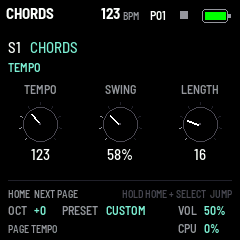
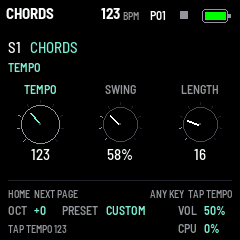
feat(terykons): 0.38.0, tap tempo on the TEMPO page's keys
- on TEMPO every key taps the tempo (no note, no MIDI out): the last
  five taps (four beats) averaged, a pause over 2.5 s a new count,
  30 to 300 BPM; heard at once while playing; SAVE keeps it
- TEMPO's knob lit as turned, TAP TEMPO and the BPM said; the band's
  hint ANY KEY TAP TEMPO
- HOME held + white key still a pattern, LOCK mode's keys still steps,
  a key held from another page lets its note go; a MIDI clock in leads
- tap.txt scenario; screen-tempo.png tapped
- docs, release notes

diff --git a/terykons/app.c b/terykons/app.c
@@ -110,6 +110,8 @@ static const uint8_t DRUM_OSC[SYNTH_D_TRACKS][3] = {{40, 55, 40}, {50, 50, 50}, 
 static const uint8_t DRUM_NOTE[SYNTH_D_TRACKS] = {36, 55, 60, 60};
 #define VOICES_DEFAULT SYNTH_POLY_VOICES
 #define FIXED_VELOCITY 100u              /* the keys' velocity with VELOCITY off */
+#define TAP_TAPS 5u                       /* (0.38) tap tempo: the last five taps, four beats, averaged */
+#define TAP_GAP_MS 2500u                 /* a pause longer: a new count (30 BPM is 2000 ms a beat) */
 static settings_t set;
 static settings_t set_stored;            /* as the flash has it: SAVE writes the settings only when they differ */
 static uint8_t set_dirty;                /* changed since the last save: SAVE is lit (or the pattern unsaved) */
@@ -989,6 +991,9 @@ static struct {
     uint16_t lock_held;                  /* the view page's steps held in LOCK mode, a bit each */
     uint32_t key_lock;                   /* the keys pressed as LOCK's steps (let go as such) */
     uint32_t key_mix;                    /* (0.26) the keys pressed on the mixer (mutes, tracks: let go as such) */
+    uint32_t key_tap;                    /* (0.38) the keys tapped on TEMPO (let go as such) */
+    uint32_t tap_at[TAP_TAPS];           /* the last taps, oldest first (ms) */
+    uint8_t tap_n;                       /* how many of them count */
     uint8_t mixer_from;                  /* the page SEL opened the mixer on (SEL again: back to it) */
     uint8_t sel_down;                    /* SEL held (let go: the mixer) */
     uint16_t meter[SYNTH_TRACKS];        /* the mixer's meters, 0..256, falling back */
@@ -2780,7 +2785,38 @@ static void page_open(uint32_t k)            /* a page's button: its page (HOME,
  * let go as such, whatever the mode is by then; no pressure sent, no chord */
 static uint32_t keys_taken(void)
 {
-    return ui.key_preset | ui.key_pat | ui.key_mix | ui.key_step | ui.key_lock;
+    return ui.key_preset | ui.key_pat | ui.key_mix | ui.key_step | ui.key_lock | ui.key_tap;
+}
+
+/* (0.38) a key on TEMPO: a tap. The tempo is the last taps' (up to TAP_TAPS: four beats) average; a pause longer than
+ * TAP_GAP_MS starts a new count. Following a MIDI clock in, the clock leads: no tap. */
+static void tempo_tap(void)
+{
+    const uint32_t now = plat_ms();
+    char t[12];
+    if (seq.ext) {
+        app_say("TEMPO", "MIDI CLOCK");
+        return;
+    }
+    if (ui.tap_n && now - ui.tap_at[ui.tap_n - 1u] > TAP_GAP_MS)
+        ui.tap_n = 0;
+    if (ui.tap_n == TAP_TAPS) {
+        memmove(ui.tap_at, ui.tap_at + 1, sizeof ui.tap_at - sizeof ui.tap_at[0]);
+        ui.tap_n--;
+    }
+    ui.tap_at[ui.tap_n++] = now;
+    if (ui.tap_n < 2u) {
+        app_say("TAP", "AGAIN");
+        return;
+    }
+    const uint32_t span = now - ui.tap_at[0], beats = ui.tap_n - 1u;
+    const uint32_t bpm = span ? (60000u * beats + span / 2u) / span : SEQ_BPM_MAX;
+    seq.bpm = (uint16_t)clamp((int32_t)bpm, SEQ_BPM_MIN, SEQ_BPM_MAX);
+    set_dirty = 1;
+    ui.turned_at[EN_K1] = now;               /* (TEMPO's knob lit, easing to it, as turned) */
+    ui.redraw = 1;
+    int_text(seq.bpm, t);
+    app_say("TAP TEMPO", t);
 }
 
 /* a key pressed: SAVE held, a preset slot; HOME held, a pattern (1..16); the mixer, a mute (white 1..8) or a solo
@@ -2821,6 +2857,9 @@ static void key_down(uint32_t k)
             step_key((uint32_t)w, 1);
         else if (b >= 0 && b < (int)SYNTH_TRACKS)
             track_select((uint32_t)b);
+    } else if (active_page == PAGE_TEMPO) {  /* (0.38) TEMPO: every key taps it (none plays) */
+        ui.key_tap |= bit;
+        tempo_tap();
     } else {                                 /* a note: key 0 is F3 (MIDI 53), the octave as it is now */
         const int32_t note = 53 + (int32_t)k + 12 * set.octave;
         const uint32_t v = set.velocity_off ? FIXED_VELOCITY : touch_vel(k);   /* GLO VELOCITY: the keys', or fixed */
@@ -2865,6 +2904,7 @@ static void key_up(uint32_t k)
         ui.key_preset &= ~bit;
         ui.key_pat &= ~bit;
         ui.key_mix &= ~bit;
+        ui.key_tap &= ~bit;
     } else {
         const int32_t note = ui.note[k];
         ui.prs[k] = 0;
@@ -5370,7 +5410,10 @@ static void draw_mixer_band(void)
 /* the page's state, in the bottom band's first line: a sound page's HOME */
 static void draw_status(int32_t y)
 {
-    if (IS_SOUND_PAGE(active_page) || active_page == PAGE_TEMPO) {
+    if (active_page == PAGE_TEMPO) {         /* (0.38: its keys tap) */
+        cv_text(8, y + 2, &FONT_T, "HOME  NEXT PAGE", C_GRAY);
+        cv_text(232 - text_w(&FONT_T, "ANY KEY  TAP TEMPO"), y + 2, &FONT_T, "ANY KEY  TAP TEMPO", C_GRAY);
+    } else if (IS_SOUND_PAGE(active_page)) {
         cv_text(8, y + 2, &FONT_T, "HOME  NEXT PAGE", C_GRAY);
         cv_text(232 - text_w(&FONT_T, "HOLD HOME + SELECT  JUMP"), y + 2, &FONT_T, "HOLD HOME + SELECT  JUMP", C_DIM);
     }

diff --git a/README.uk.md b/README.uk.md
@@ -15,7 +15,8 @@
 
 ---
 
-Поточна версія: **0.37.0**: у кожної синтової доріжки своя обвідна (ENV) і свій LFO (MOD), вони частина її звуку:
+Поточна версія: **0.38.0**: tap tempo: на сторінці TEMPO (HOME на сторінці териконів) кожна клавіша
+відстукує темп, береться середнє останніх чотирьох долей. 0.37.0: у кожної синтової доріжки своя обвідна (ENV) і свій LFO (MOD), вони частина її звуку:
 пресет користувача їх зберігає, а ATTACK, DECAY, RELEASE, LFO RATE і LFO DEPTH можна залочити на кроці. 0.36.2: HOME на
 сторінці териконів відкриває окрему сторінку TEMPO з ручками TEMPO, SWING і LENGTH, ще раз HOME — сторінки звуку. 0.36.1: логотип при ввімкненні тримається близько двох секунд, під ним версія прошивки. 0.36:
 GRAV CODE тепер називається Terykons: нова назва на екрані, по USB і в пакеті
@@ -59,7 +60,7 @@ SELECT перемикає їх швидко.
   MONO, POLY або жодного), і чотири барабанні (D1–D4): кік, малий або хай-хет Plaits (по дві моделі) з шістьма
   ручками (TUNE, DECAY, TONE; у кіка PUNCH, SWEEP, DRIVE), у кожної свій голос. У кожної доріжки свої кроки — 64,
   чотири сторінки по 16 на білих клавішах, як у TR; своя довжина від 1 до 64 (поліметрія); ноти й акорди зі своєю
-  силою та довжиною; шістнадцять патернів, зміна в кінці патерну; спільний темп, свій свінг у кожної доріжки;
+  силою та довжиною; шістнадцять патернів, зміна в кінці патерну; спільний темп (його можна відстукати клавішами на сторінці TEMPO), свій свінг у кожної доріжки;
   покроковий і живий запис; MIDI clock на вихід і вхід; ноти кожної доріжки на своєму MIDI-каналі (1–8);
   параметр-локи на кроках (EDIT: режим LOCK), з нотою чи без, рухи ручок записуються наживо.
 - **Арпеджіатор** на кожній синтовій доріжці (ARP): шість режимів, тривалість ноти в темп, 1–4 октави, GATE і HOLD;
@@ -83,7 +84,7 @@ SELECT перемикає їх швидко.
 | Кнопка | Сторінка | K1 | K2 | K3 |
 | --- | --- | --- | --- | --- |
 | HOME | HOME (терикони) | TEMPO (30–300 BPM) | SWING (50–75 %) | LENGTH (1–64 кроки) |
-| HOME ще раз | TEMPO (ці ручки на екрані) | TEMPO | SWING | LENGTH |
+| HOME ще раз | TEMPO (ці ручки на екрані; будь-яка клавіша відстукує темп) | TEMPO | SWING | LENGTH |
 | HOME ще раз | OSC | TIMBRE | MORPH | HARMONICS |
 | LFO | MOD (синтової доріжки) | LFO RATE (0,05–20 Гц) | LFO DEPTH (глибина) | LFO DEST (TIMBRE, MORPH, PITCH) |
 | ENV | ENV (синтової доріжки) | ATTACK (0–2 с) | DECAY (0–2 с, до 70 %) | RELEASE (0–4 с) |
@@ -159,7 +160,7 @@ K1 — TIMBRE, K2 — MORPH, K3 — HARMONICS (на екрані — свої н
 2. Зберіть сайт і запустіть його (або використайте опублікований):
 
    ```bash
-   python3 tools/make_site.py terykons terykons/build/terykons-0.37.0.fwsc 0.37.0 terykons/build/site
+   python3 tools/make_site.py terykons terykons/build/terykons-0.38.0.fwsc 0.38.0 terykons/build/site
    python3 -m http.server 8080 --directory terykons/build/site
    ```
 
@@ -174,14 +175,14 @@ Terykons збирається інструментом fm1-base `tools/build.py`
 
 ```bash
 export JIELI_TOOLCHAIN="$HOME/.jieli/toolchain" AC79_SDK="$HOME/fw-AC79_AIoT_SDK"
-python3 tools/build.py terykons --release 0.37.0      # terykons/build/terykons-0.37.0.fwsc
+python3 tools/build.py terykons --release 0.38.0      # terykons/build/terykons-0.38.0.fwsc
 python3 tools/build.py terykons --host                # симулятор для тестів:
 terykons/build/host/terykons_host terykons/tests/basic.txt terykons/build/host
 python3 tools/build.py terykons --web                 # емулятор у браузері (Emscripten)
 ```
 
 Тести (`terykons/tests/`): `basic.txt` (клавіші, октава, збереження, MIDI), `engines.txt` (усі рушії звучать),
-`voices.txt` (поліфонія, MONO, velocity), `fx.txt` (ефект: HALL, TAPE, ECHO, його озеро, збереження, старі налаштування), `arp.txt` (арпеджіатор), `locks.txt` (параметр-локи), `envlfo.txt` (ENV і LFO кожної синтової доріжки),
+`voices.txt` (поліфонія, MONO, velocity), `fx.txt` (ефект: HALL, TAPE, ECHO, його озеро, збереження, старі налаштування), `arp.txt` (арпеджіатор), `locks.txt` (параметр-локи), `envlfo.txt` (ENV і LFO кожної синтової доріжки), `tap.txt` (tap tempo),
 `seq.txt` (секвенсор), `rec.txt` (живий запис, метроном), `theme.txt` (кольори екрана й небо), `mixer.txt`
 (мікшер), `browser.txt` (терикони HOME, браузер пресетів), `playback.txt` (усі вісім доріжок грають, розподіл
 голосів VOICES), `tracks.txt` (синтові доріжки), `drums.txt` (барабанні доріжки), `patterns.txt` (патерни),

diff --git a/README.md b/README.md
@@ -15,7 +15,8 @@ reverb, all on the FM-1's own panel and screen.
 
 ---
 
-Current version: **0.37.0**: each synth track has its own envelope (ENV) and LFO (MOD), part of its sound: a user
+Current version: **0.38.0**: tap tempo: on the TEMPO page (HOME from HOME's terricons) every key taps it, the last
+four beats averaged. 0.37.0: each synth track has its own envelope (ENV) and LFO (MOD), part of its sound: a user
 preset keeps them, and ATTACK, DECAY, RELEASE, LFO RATE and LFO DEPTH can be locked on a step. 0.36.2: HOME from HOME's
 terricons shows TEMPO, SWING and LENGTH as knobs on a page of their own (TEMPO), HOME again the sound's pages. 0.36.1: the logo at power-on stays about two seconds, the version under it. 0.36: GRAV CODE is
 Terykons now: its name on the screen, over USB and in the package
@@ -59,7 +60,7 @@ hold HOME and turn SELECT to jump.
   out: MONO, POLY or none), and four drum tracks (D1–D4), each a kick, snare or hi-hat of Plaits' (two models each)
   with six knobs (TUNE, DECAY, TONE; the kick's PUNCH, SWEEP, DRIVE), in a voice of its own. Each its steps: 64 in four pages of 16, played on the white keys like a TR, a length of 1 to 64 each
   (polymeters), notes and chords with their velocity and length; sixteen patterns, switched at the pattern's end;
-  the song's tempo, each pattern's swing; step recording, MIDI clock out and in (it follows one); each track's notes
+  the song's tempo (tap it on the TEMPO page's keys), each pattern's swing; step recording, MIDI clock out and in (it follows one); each track's notes
   on its MIDI channel (1–8); parameter locks on the steps (EDIT: LOCK mode), with or without a note, the knobs'
   moves recorded live.
 - **An arpeggiator** on each synth track (ARP): six modes, a note value in time, 1–4 octaves, GATE and HOLD; the keys,
@@ -82,7 +83,7 @@ hold HOME and turn SELECT to jump.
 | Button | Page | K1 | K2 | K3 |
 | --- | --- | --- | --- | --- |
 | HOME | HOME (the terricons) | TEMPO (30 to 300 BPM) | SWING (50 to 75 %) | LENGTH (1 to 64 steps) |
-| HOME again | TEMPO (its knobs shown) | TEMPO | SWING | LENGTH |
+| HOME again | TEMPO (its knobs shown; any key taps the tempo) | TEMPO | SWING | LENGTH |
 | HOME again | OSC | TIMBRE | MORPH | HARMONICS |
 | LFO | MOD (the synth track's) | LFO RATE (0.05 to 20 Hz) | LFO DEPTH | LFO DEST (TIMBRE, MORPH, PITCH) |
 | ENV | ENV (the synth track's) | ATTACK (0 to 2 s) | DECAY (0 to 2 s, to 70 %) | RELEASE (0 to 4 s) |
@@ -154,7 +155,7 @@ manual has the details: [terykons/docs/MANUAL.md](terykons/docs/MANUAL.md).
 2. Make the site and serve it (or use the published one):
 
    ```bash
-   python3 tools/make_site.py terykons terykons/build/terykons-0.37.0.fwsc 0.37.0 terykons/build/site
+   python3 tools/make_site.py terykons terykons/build/terykons-0.38.0.fwsc 0.38.0 terykons/build/site
    python3 -m http.server 8080 --directory terykons/build/site
    ```
 
@@ -169,14 +170,14 @@ JieLi's AC79 SDK.
 
 ```bash
 export JIELI_TOOLCHAIN="$HOME/.jieli/toolchain" AC79_SDK="$HOME/fw-AC79_AIoT_SDK"
-python3 tools/build.py terykons --release 0.37.0      # terykons/build/terykons-0.37.0.fwsc
+python3 tools/build.py terykons --release 0.38.0      # terykons/build/terykons-0.38.0.fwsc
 python3 tools/build.py terykons --host                # the simulator, for the tests:
 terykons/build/host/terykons_host terykons/tests/basic.txt terykons/build/host
 python3 tools/build.py terykons --web                 # the browser emulator (Emscripten)
 ```
 
 The tests (`terykons/tests/`): `basic.txt` (keys, octave, saving, MIDI), `engines.txt` (every engine plays),
-`voices.txt` (polyphony, MONO, velocity), `fx.txt` (the effect: HALL, TAPE, ECHO, its lake, saving, older settings), `arp.txt` (the arpeggiator), `locks.txt` (parameter locks), `envlfo.txt` (each synth track's ENV and LFO),
+`voices.txt` (polyphony, MONO, velocity), `fx.txt` (the effect: HALL, TAPE, ECHO, its lake, saving, older settings), `arp.txt` (the arpeggiator), `locks.txt` (parameter locks), `envlfo.txt` (each synth track's ENV and LFO), `tap.txt` (tap tempo),
 `dual_core.txt` (DEBUG and worker scheduling), `seq.txt` (the sequencer), `rec.txt` (live recording, the metronome), `theme.txt` (the screen's colours), `mixer.txt` (the mixer), `browser.txt` (HOME's terricons, the presets' browser), `playback.txt` (all eight tracks playing, VOICES shared out), `tracks.txt` (the synth tracks), `drums.txt` (the drum tracks), `patterns.txt` (the patterns), `icons.txt` (the icons), `presets.txt` (browsing, saving, reboot and deferred/error writes), `sound_pages.txt` (advanced controls, all six FM operators, animation and migration), `seq_test.c` (its timing, to the sample, and
 `bank_test.c`, the patterns' flash: `run_seq_test.py`), `screens.txt` (the screenshots). More in
 [terykons/README.md](terykons/README.md).

diff --git a/terykons/docs/MANUAL.md b/terykons/docs/MANUAL.md
@@ -88,7 +88,7 @@ From the top:
 
 | Control | What it does |
 | --- | --- |
-| Keys | Play, with velocity (or a fixed one: GLO). 27 keys, F3 to G5 at OCT +0 |
+| Keys | Play, with velocity (or a fixed one: GLO). 27 keys, F3 to G5 at OCT +0. On the TEMPO page (0.38): tap the tempo |
 | OCT- / OCT+ | The octave, -2 to +2. Keys held keep their notes until they are let go. In step mode: the pages |
 | ALGO (knob) | The selected track's engine: all 24 in Plaits' order, round from the last to the first; a drum track's: its drum, one of six (section 6). Each turn shows the engine's splash for a moment |
 | PRESET (knob) | The presets' browser (0.27, section 9): every sound the track can play, engine after engine; each chosen plays at once, the engine changing with it. OCT+ its engine's alone, OCT- back as it was; it closes 3 s after the last turn. A sound changed after its preset reads its name with a * |
@@ -123,13 +123,20 @@ chip's update mode, a way to install when Terykons starts but its USB can't be r
 
 The sequencer's page, Terykons' main one: section 5.
 
-### TEMPO (HOME again, 0.36.2)
+### TEMPO (HOME again, 0.36.2; tap tempo, 0.38)
 
-![The TEMPO page: TEMPO 123, SWING 58%, LENGTH 16 as knobs; HOME NEXT PAGE in the bottom band](img/screen-tempo.png "TEMPO")
+![The TEMPO page tapped: TEMPO 123 lit, SWING 58%, LENGTH 16 as knobs; HOME NEXT PAGE and ANY KEY TAP TEMPO in the bottom band, TAP TEMPO 123 under them](img/screen-tempo.png "TEMPO, tapped")
 
 From HOME's terricons, HOME again shows the song's time as knobs: **TEMPO** (K1, 30 to 300 BPM, the whole song's),
 **SWING** (K2, the selected track's, grey while it is the pattern's) and **LENGTH** (K3, the selected track's steps,
 1 to 64). They are the knobs HOME's terricons and step mode have too (section 5), shown here. HOME again: OSC.
+
+**Tap tempo (0.38).** On this page every key taps the tempo instead of playing (no note, no MIDI out): tap along with
+the beat, and from the second tap TEMPO is the taps' average over the last four beats (TAP TEMPO and the BPM; the
+first says TAP AGAIN). A pause longer than 2.5 s starts a new count; it stays within 30 to 300 BPM. While the song
+plays it follows at once. SAVE keeps it, as TEMPO turned. A key held from another page still lets its note go; HOME
+held with a white key still picks a pattern, and in LOCK mode the white keys are still the steps. Following a MIDI
+clock in, the clock leads: a tap says TEMPO MIDI CLOCK and changes nothing.
 
 ### OSC (HOME a third time)
 
@@ -267,7 +274,7 @@ page and its row red in step mode; a soloed one shows SOLO. The keys still play 
 
 ### GLO (GLO)
 
-![The GLO page: the voices of S1..S4 and those free, S1's VOICES MONO, VELOCITY ON, METRONOME REC; ID FM-1_73003700, version 0.37.0](img/screen-glo.png "The GLO page")
+![The GLO page: the voices of S1..S4 and those free, S1's VOICES MONO, VELOCITY ON, METRONOME REC; ID FM-1_73003800, version 0.38.0](img/screen-glo.png "The GLO page")
 
 The firmware and its global settings:
 

diff --git a/terykons/README.md b/terykons/README.md
@@ -21,7 +21,7 @@ arpeggiator's, 0.34; LOCK mode on EDIT, the parameter locks, 0.35), the presets'
 | `vendor/` | Plaits, Beads' reverb engine and tape, stmlib, libc++ and newlib headers: [vendor/README.md](vendor/README.md) |
 | `fm1.toml` | Build and site settings: name, identity, the DSP units, their flags, the site's tagline and credits |
 | `words.tsv` | The screen reader's words |
-| `tests/` | The simulator's scripts: `basic.txt`, `engines.txt`, `voices.txt`, `fx.txt`, `arp.txt`, `locks.txt`, `envlfo.txt`, `dual_core.txt`, `six_op_controls.txt`, `seq.txt`, `rec.txt`, `theme.txt`, `mixer.txt`, `browser.txt`, `playback.txt`, `tracks.txt`, `drums.txt`, `patterns.txt`, `icons.txt`, `presets.txt`, `sound_pages.txt`, and `screens.txt` and `icon_sheet.txt` (the manual's and the README's pictures); `seq_test.c` (the sequencer's timing) and `bank_test.c` (the patterns' bank on a flash of its own: a save cut short, damage, wear), `run_seq_test.py`; `presets_test.c` (`run_presets_test.py`); `dual_core_test.cpp` (`run_dual_core_test.py`) |
+| `tests/` | The simulator's scripts: `basic.txt`, `engines.txt`, `voices.txt`, `fx.txt`, `arp.txt`, `locks.txt`, `envlfo.txt`, `tap.txt`, `dual_core.txt`, `six_op_controls.txt`, `seq.txt`, `rec.txt`, `theme.txt`, `mixer.txt`, `browser.txt`, `playback.txt`, `tracks.txt`, `drums.txt`, `patterns.txt`, `icons.txt`, `presets.txt`, `sound_pages.txt`, and `screens.txt` and `icon_sheet.txt` (the manual's and the README's pictures); `seq_test.c` (the sequencer's timing) and `bank_test.c` (the patterns' bank on a flash of its own: a save cut short, damage, wear), `run_seq_test.py`; `presets_test.c` (`run_presets_test.py`); `dual_core_test.cpp` (`run_dual_core_test.py`) |
 | `docs/` | The manual and its pictures (`docs/img/compose.py` makes the README's from them) |
 | `site/landing.md` | The site's front page |
 
@@ -64,13 +64,13 @@ Python with Pillow (the fonts).
 
 ## Release and site
 
-    python3 tools/build.py terykons --release 0.37.0    # terykons/build/terykons-0.37.0.fwsc, identity FM-1_73003700
+    python3 tools/build.py terykons --release 0.38.0    # terykons/build/terykons-0.38.0.fwsc, identity FM-1_73003800
     python3 tools/build.py terykons --web
-    python3 tools/make_site.py terykons terykons/build/terykons-0.37.0.fwsc 0.37.0 terykons/build/site
+    python3 tools/make_site.py terykons terykons/build/terykons-0.38.0.fwsc 0.38.0 terykons/build/site
 
 ## The pictures
 
-    python3 tools/build.py terykons --host --release 0.37.0   # (so GLO shows the version and identity)
+    python3 tools/build.py terykons --host --release 0.38.0   # (so GLO shows the version and identity)
     terykons/build/host/terykons_host terykons/tests/screens.txt terykons/docs/img
     python3 terykons/docs/img/compose.py
 

diff --git a/terykons/docs/RELEASE_0.38.0.md b/terykons/docs/RELEASE_0.38.0.md
@@ -1,0 +1,30 @@
+# Terykons 0.38.0 — tap tempo
+
+Package: `terykons-0.38.0.fwsc`, identity `FM-1_73003800`. After 0.37.0 (`a9c73d8`: each synth track its own ENV
+and LFO).
+
+![TEMPO, tapped](img/screen-tempo.png)
+
+**Tap the tempo.** On the TEMPO page (HOME from HOME's terricons) every key now taps the tempo instead of playing:
+tap along with the beat, and from the second tap TEMPO is the taps' average over the last four beats. The TEMPO knob
+lights and eases to it, the bottom band says TAP TEMPO and the BPM (the first tap: TAP AGAIN), and the band's hint
+reads ANY KEY TAP TEMPO.
+
+- A pause longer than 2.5 s starts a new count; the tempo stays within 30 to 300 BPM.
+- While the song plays it follows at once, and plays on. SAVE keeps it, as TEMPO turned.
+- A tap plays no note and sends no MIDI. A key held from another page still lets its note go.
+- HOME held with a white key still picks a pattern; in LOCK mode (EDIT) the white keys are still the steps.
+- Following a MIDI clock in, the clock leads: a tap says TEMPO MIDI CLOCK and changes nothing.
+
+Why the keys: the FM-1's fourteen buttons all have their jobs, and on the TEMPO page the keys had none worth keeping;
+they are the biggest thing on the panel to tap with one hand.
+
+Validation on 30 October 2026: all 23 simulator scenarios (new: `tap.txt`: the average, uneven taps, a new count,
+the limits, while playing, a pattern picked, a MIDI clock in, LOCK mode, a held note let go, saving), the screenshot
+script (`screen-tempo.png` now tapped), the dual-core, sequencer, pattern bank and preset tests pass. Device
+build/compiler checks pass: image **395520 B**, RAM **73504 / 98304 B**, pool **332968 / 344064 B**; package
+**611496 B**.
+
[1 lines of base64/hex data omitted]
+
+Not yet installed on the FM-1.

diff --git a/terykons/docs/SEQUENCER_PLAN.md b/terykons/docs/SEQUENCER_PLAN.md
@@ -258,6 +258,11 @@ DOWN, UP-DOWN, RANDOM, AS PLAYED, CHORD), RATE (длительности ECHO), 
 общие ENV и LFO на каждую дорожку. Лочатся ATTACK, DECAY, RELEASE, LFO RATE и LFO DEPTH (SEQ_LK_ATTACK…LFO_DEPTH);
 LFO DEST нет. У барабанной дорожки ENV и LFO нет: страницы пишут об этом, ручки ничего не меняют.
 
+**Сделано в 0.38.0:** tap tempo. Все 14 кнопок заняты, поэтому тап — на клавишах страницы TEMPO (там они не играют):
+`tempo_tap` в app.c, последние 5 нажатий (четыре доли) усредняются, пауза больше 2,5 с начинает счёт заново,
+30–300 BPM; при игре темп меняется сразу. Клавиша, зажатая на другой странице, отпускает свою ноту; HOME + белая
+клавиша — по-прежнему паттерн, в режиме LOCK белые клавиши — шаги. При внешнем MIDI clock тап не меняет темп.
+
 **Решено про параметр-локи (было планом до 0.35):** EDIT — режим LOCK: белые клавиши — шаги на любой странице, зажал шаг
 (или несколько) и крутишь ручку — лок; EDIT + шаг стирает его локи. Лок действует от шага до следующего удара дорожки
 (звук собирается на дорожку целиком, `render_span`). Лочатся OSC (TIMBRE, MORPH, HARMONICS), у барабанов TUNE, TONE,
